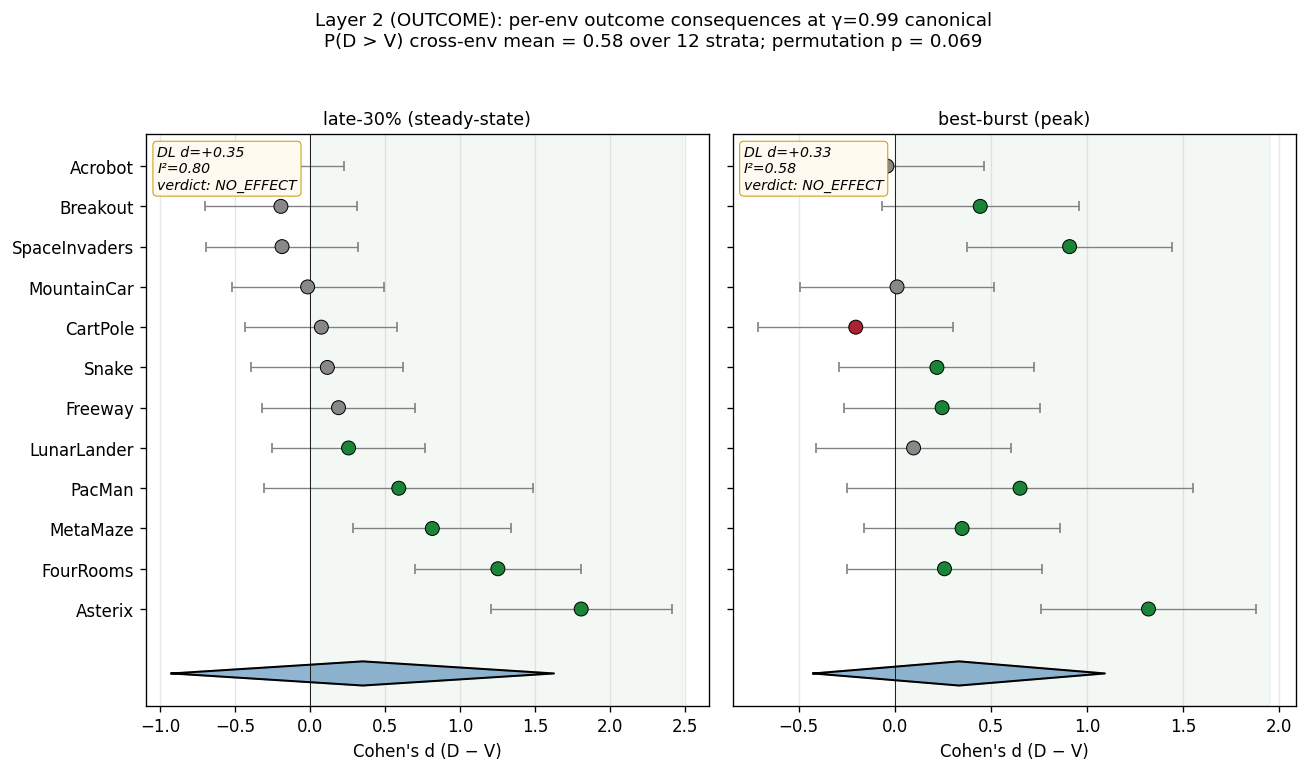
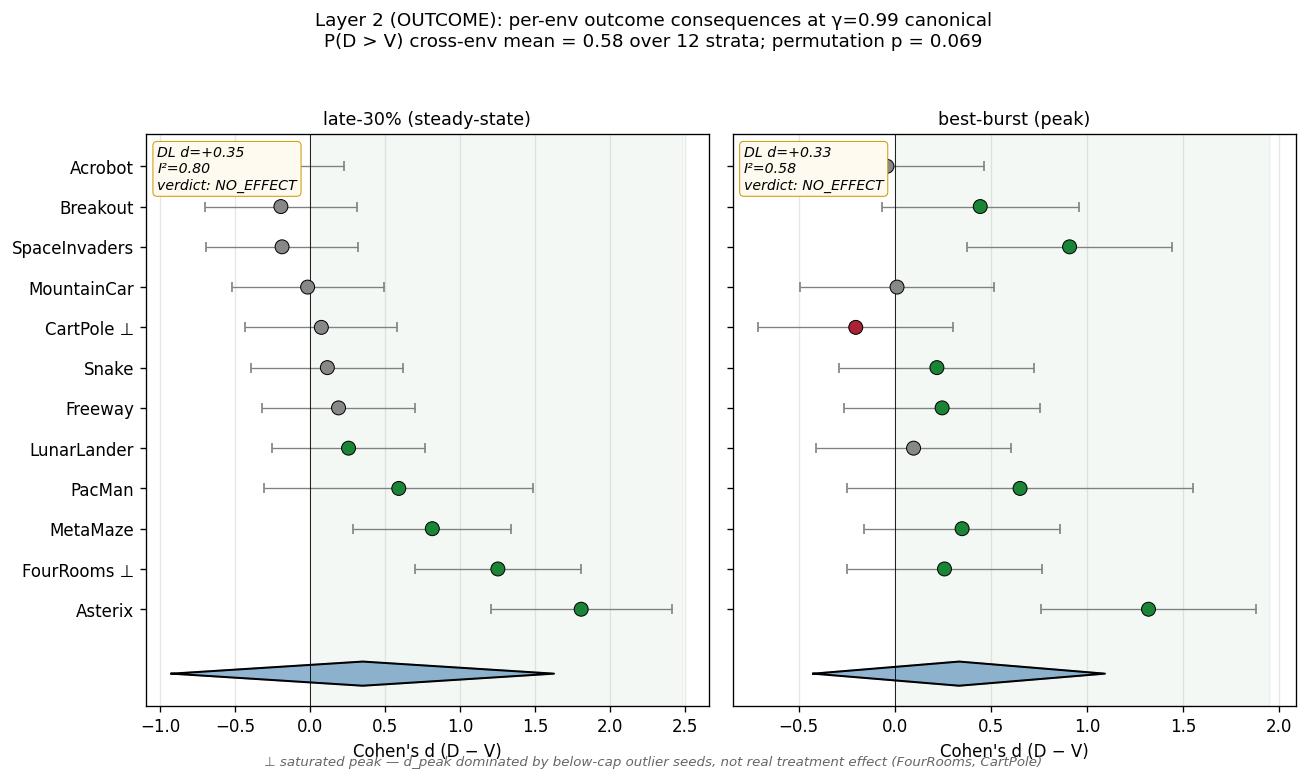
L2 forest plot: surface saturation flag (⊥) for CartPole + FourRooms.
CartPole's d_peak=-0.27 (red harm marker) is a saturation artifact:
29/30 V seeds and 28/30 D seeds reach the env cap of 500; the
negative d is dominated by 1-2 below-cap outlier seeds, not a real
treatment effect. FourRooms similar (binary goal-reach saturates).

Same detection rule as 02b_learning_curves: env flagged ⊥ if >70% of
seeds in either arm peak within 1% of joint env-cap. Forest-plot
y-tick labels marked with ⊥ suffix; figure footnote explains.

report.md L2 section now notes: CartPole 200k re-training would
either remove the saturation or expose a meaningful post-saturation
stability difference (future work).

Acrobot data does not pass the threshold (cap=-72; 0% of seeds reach
within 1% of -72 — most reach ~-100); its d_peak is genuine
heterogeneity, not saturation.

diff --git a/papers/g099_mediation/scripts/02_outcome_per_env.py b/papers/g099_mediation/scripts/02_outcome_per_env.py
@@ -61,6 +61,33 @@ def main() -> None:
     late = _arm_diff_per_env(df, OUTCOME_LATE_COL)
     peak = _arm_diff_per_env(df, OUTCOME_PEAK_COL)
 
+    # Saturation detection: an env's peak metric is uninformative
+    # when most seeds in either arm reach the env's reward cap.
+    # Flag envs where >70% of seeds in EITHER arm peak within 1% of
+    # the joint env-cap. CartPole (29/30 V, 28/30 D at 500) and
+    # FourRooms (1.00 cap, both arms saturate) qualify; the d_peak
+    # at these envs is dominated by 1-2 below-cap outlier seeds.
+    saturated_envs: set[str] = set()
+    for env in ENV_ORDER:
+        sub_e = df.filter(pl.col('env_name') == env)
+        peaks_all = sub_e[OUTCOME_PEAK_COL].drop_nulls().to_list()
+        if not peaks_all:
+            continue
+        env_cap = max(peaks_all)
+        sat_per_arm: list[float] = []
+        for arm in (BASELINE_ARM, TREATMENT_ARM):
+            arm_peaks = (
+                sub_e.filter(pl.col('arm_key') == arm)
+                [OUTCOME_PEAK_COL].drop_nulls().to_list()
+            )
+            if arm_peaks and env_cap > 0:  # only positive-cap envs saturate
+                sat_per_arm.append(
+                    sum(1 for v in arm_peaks if v >= 0.99 * env_cap)
+                    / len(arm_peaks)
+                )
+        if sat_per_arm and max(sat_per_arm) > 0.7:
+            saturated_envs.add(env)
+
     # Per-env rows, ordered by late-outcome d.
     by_id_late = {s.stratum_id[0]: s for s in late.per_stratum}
     by_id_peak = {s.stratum_id[0]: s for s in peak.per_stratum}
@@ -145,10 +172,27 @@ def main() -> None:
         ax.set_xlabel("Cohen's d (D − V)", fontsize=10)
         ax.set_title(title, fontsize=10.5)
         ax.grid(alpha=0.3, axis='x')
+    # Mark saturated envs on the y-tick labels with ⊥.
+    labels_marked = [
+        (lab + ' ⊥' if r[0] in saturated_envs else lab)
+        for lab, r in zip(labels, rows, strict=False)
+    ]
     axes[0].set_yticks(y_pos)
-    axes[0].set_yticklabels(labels)
+    axes[0].set_yticklabels(labels_marked)
     axes[0].invert_yaxis()
     axes[0].set_ylim(diamond_y + 0.8, -0.8)
+
+    # Footnote about saturation flag — anchor to FIGURE coords below
+    # the x-axis labels so it doesn't overlap.
+    if saturated_envs:
+        sat_list = ', '.join(env_label(e) for e in saturated_envs)
+        fig.text(
+            0.5, 0.01,
+            f'⊥ saturated peak — d_peak dominated by below-cap outlier '
+            f'seeds, not real treatment effect ({sat_list})',
+            ha='center', va='bottom', fontsize=8, style='italic',
+            color='#666',
+        )
 
     # Title with cross-env P(D > V)
     fig.suptitle(

diff --git a/papers/g099_mediation/report.md b/papers/g099_mediation/report.md
@@ -109,11 +109,20 @@ between-env variance to support a generalisable outcome claim.
 behind the scalar table. Each panel shows V vs D median across
 seeds + IQR + 5/95 envelope, with mean per-seed peak (♦) and the
 late-30% window (gold band). Title shows P(D>V) under both
-metrics: **6 of 12 envs are metric-sensitive (↕)** — their
-peak-vs-late30 P(D>V) disagree on sign (SpaceInvaders, MetaMaze,
-MountainCar, Acrobot, FourRooms, Snake, CartPole). This is the
-methodological finding the framework's dual-metric reporting
-discipline (peak ∥ late30) is designed to surface.
+metrics. Cross-env partition: **6 ✓ agree, 4 metric-sensitive ↕,
+2 saturated ⊥**. The ↕ envs are exactly what the framework's
+dual-metric reporting discipline (peak ∥ late30) is designed to
+surface.
+
+**Saturation flag (⊥)**: CartPole and FourRooms have >70% of
+seeds peaking within 1% of the env reward cap (CartPole 29/30 V
++ 28/30 D at 500; FourRooms binary goal-reach). At these envs the
+peak P(D>V) is dominated by 1-2 below-cap outlier seeds and is
+not a real treatment effect. The forest plot's d_peak marker
+shows CartPole at d≈-0.27 (red harm), but this is a sampling
+artifact — both arms saturate. Longer training (e.g., 200k steps)
+would either remove the saturation or expose a meaningful
+post-saturation stability difference; left for future work.
 
 → `figures/02_outcome_per_env.png` and `.csv` (per-env Cohen's d table)
 → `figures/02b_learning_curves.png` (per-burst trajectory panel)
